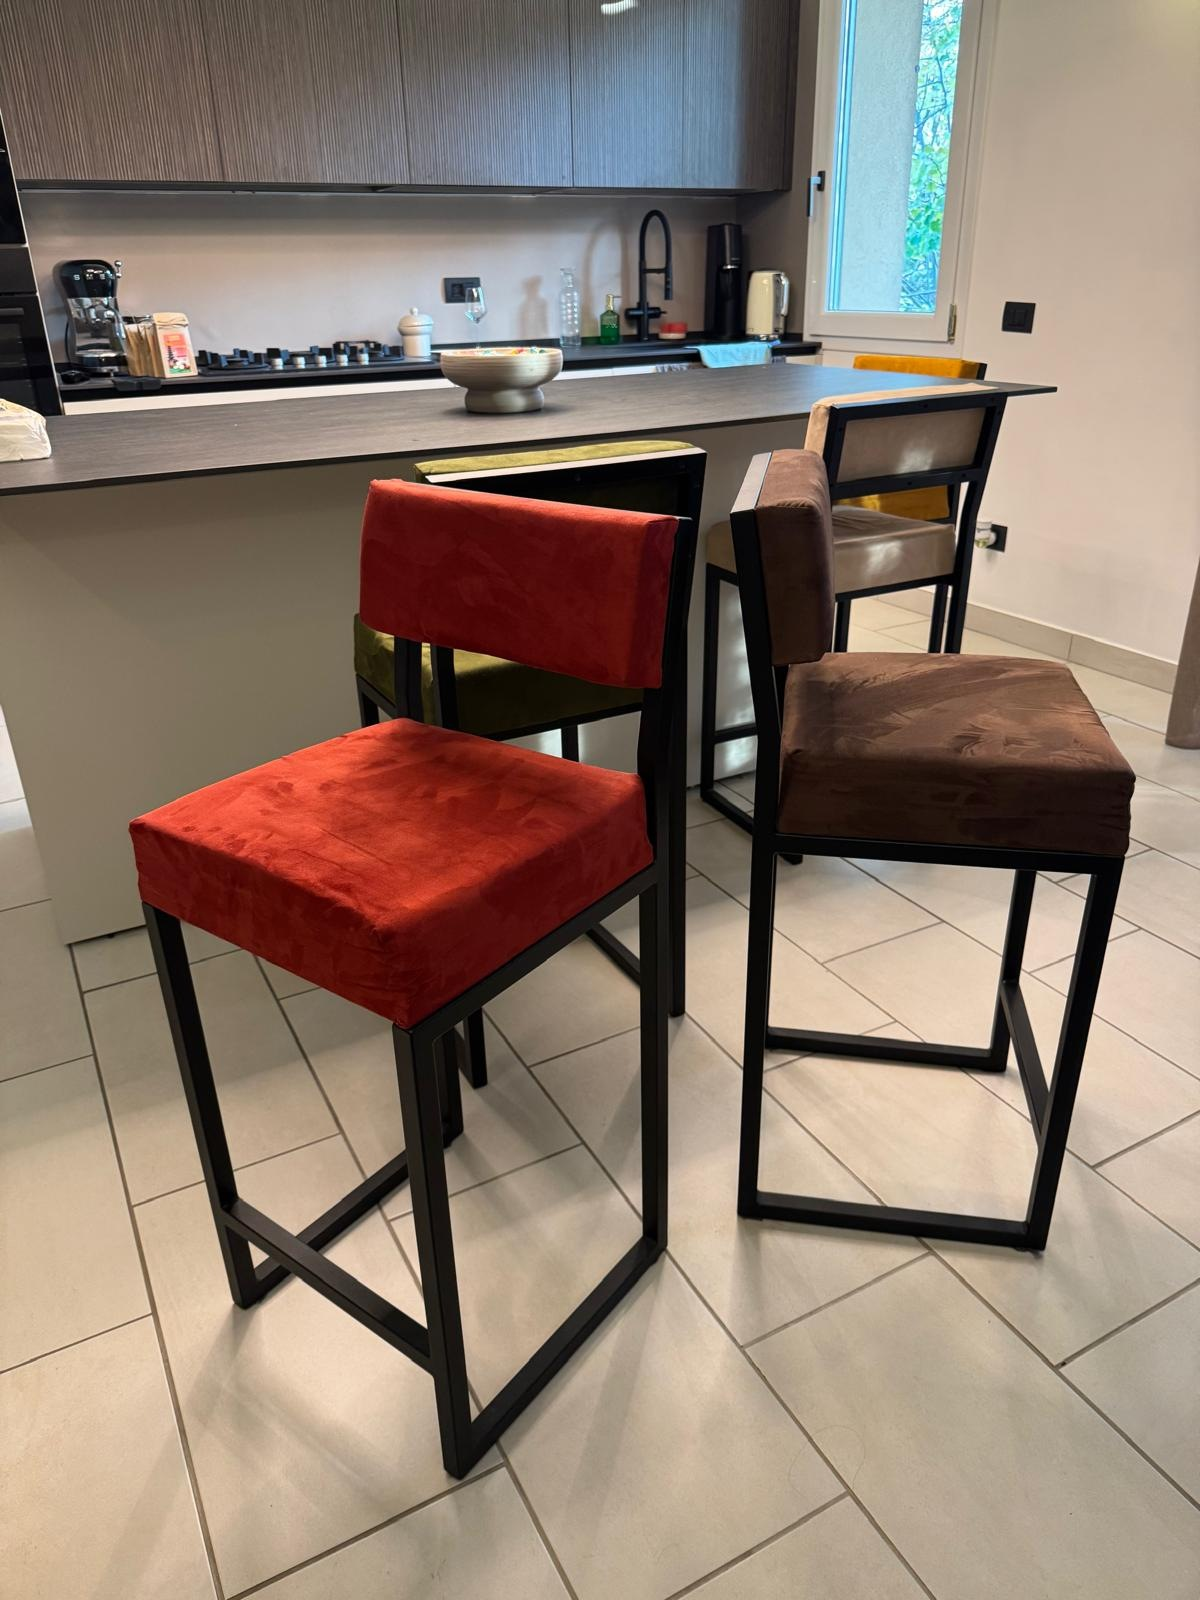
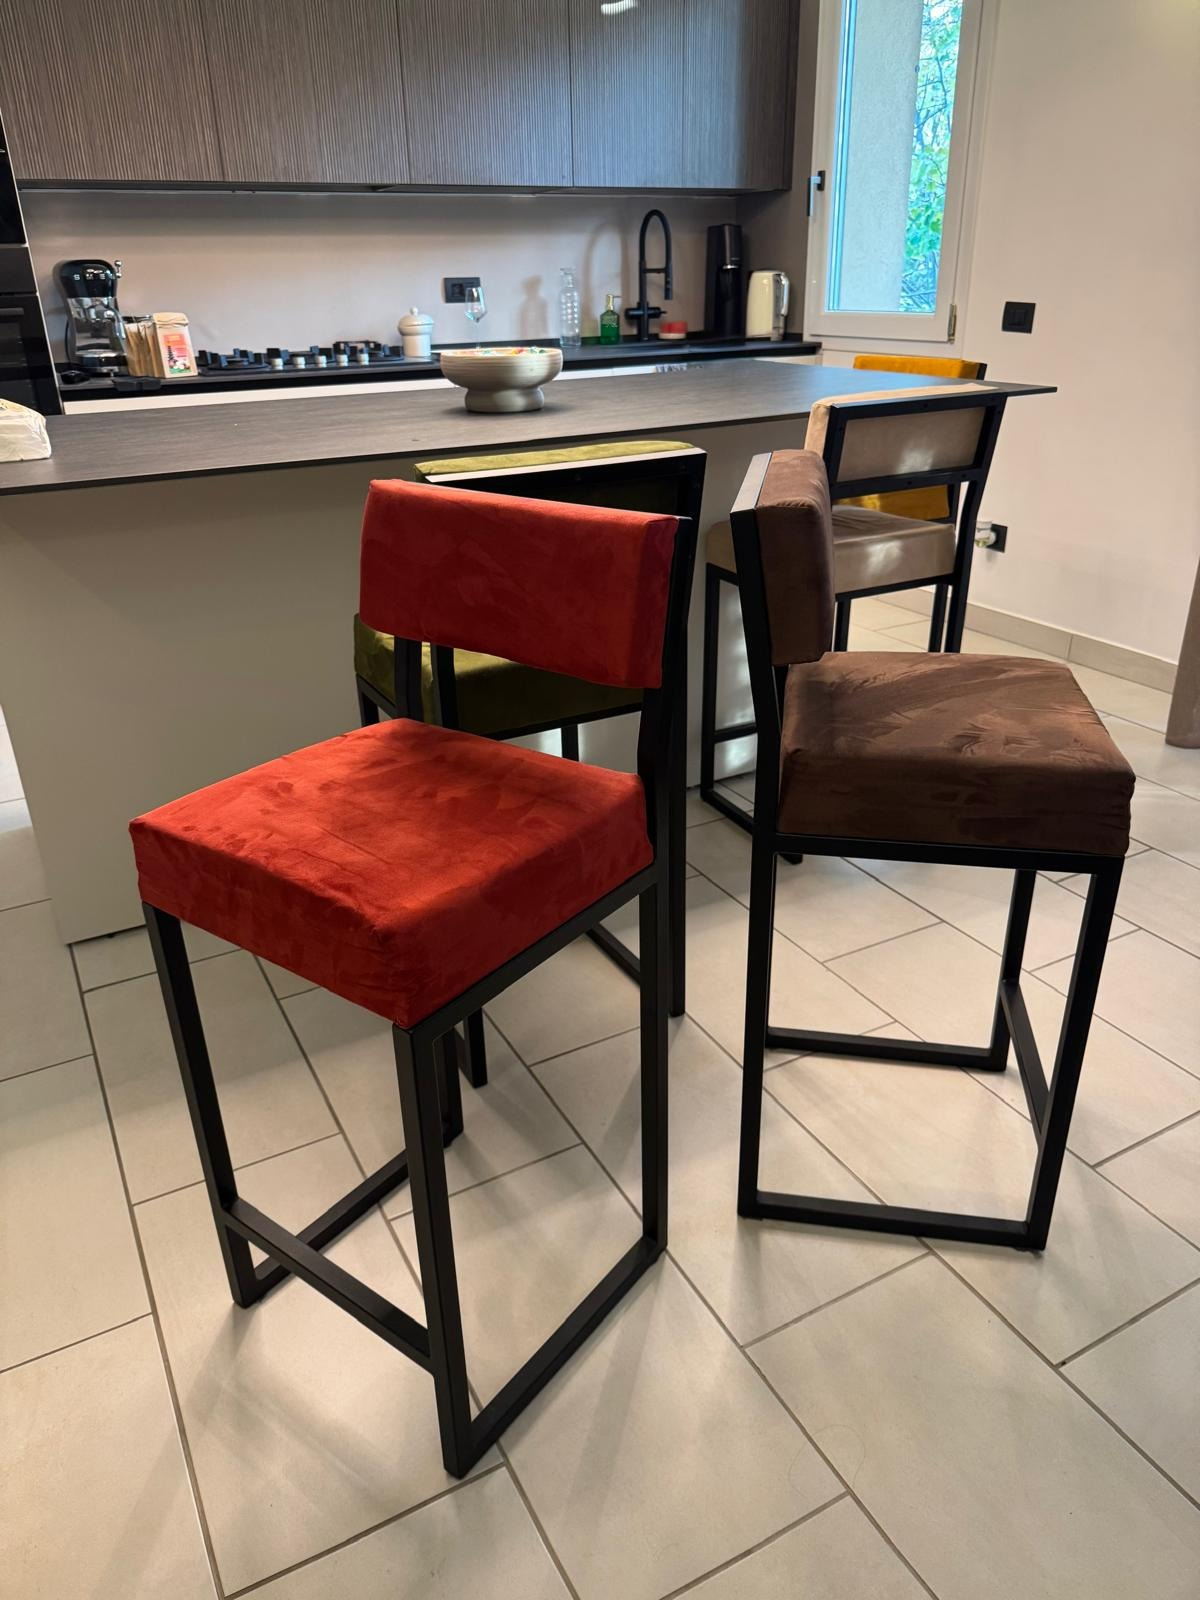
Video Simoni Design: nuove foto senza lo strofinaccio
Claude-Session: https://claude.ai/code/session_01Dv9nWWNrwGPQsbPot8haEt

diff --git a/index.html b/index.html
@@ -71,7 +71,7 @@
       </div>
       <div id="s4" class="clip scene" data-start="8.50" data-duration="1.75" data-track-index="1">
         <div id="s4-fade" class="fade">
-          <div class="zoom"><div id="s4-cam" class="cam" style="width:1920px"><img src="assets/simoni/p5.jpg" alt="" /></div></div>
+          <div class="zoom"><div id="s4-cam" class="cam" style="width:1440px"><img src="assets/simoni/p12.jpg" alt="" /></div></div>
           <div class="shade"></div>
           <div id="s4-cap" class="cap"><div class="bar"></div><div class="kick"><span class="chip" style="background:#6e7b1e"></span>01 / 05</div><div class="ml"><span id="s4-l0" class="l2">Verde</span></div></div>
         </div>
@@ -99,7 +99,7 @@
       </div>
       <div id="s8" class="clip scene" data-start="14.50" data-duration="1.75" data-track-index="1">
         <div id="s8-fade" class="fade">
-          <div class="zoom"><div id="s8-cam" class="cam" style="width:1440px"><img src="assets/simoni/p9.jpg" alt="" /></div></div>
+          <div class="zoom"><div id="s8-cam" class="cam" style="width:1920px"><img src="assets/simoni/p9.jpg" alt="" /></div></div>
           <div class="shade"></div>
           <div id="s8-cap" class="cap"><div class="bar"></div><div class="kick"><span class="chip" style="background:#e0a020"></span>05 / 05</div><div class="ml"><span id="s8-l0" class="l2">Senape</span></div></div>
         </div>
@@ -163,14 +163,14 @@
       tl.fromTo("#s2-l0", { yPercent: 115 }, { yPercent: 0, duration: 0.5, ease: "power3.out" }, 4.80);
       tl.fromTo("#s2-l1", { yPercent: 115 }, { yPercent: 0, duration: 0.5, ease: "power3.out" }, 4.90);
       tl.to("#s3-fade", { opacity: 0, duration: 0.05, ease: "none" }, 8.70);
-      tl.fromTo("#s3-cam", { x: -180, y: -222 }, { x: -266, y: -284, duration: 2.25, ease: "power1.inOut" }, 6.50);
-      tl.fromTo("#s3 .zoom", { scale: 1.3 }, { scale: 1.42, duration: 2.25, ease: "power1.inOut" }, 6.50);
+      tl.fromTo("#s3-cam", { x: -266, y: -160 }, { x: -410, y: -264, duration: 2.25, ease: "power1.inOut" }, 6.50);
+      tl.fromTo("#s3 .zoom", { scale: 1.2 }, { scale: 1.38, duration: 2.25, ease: "power1.inOut" }, 6.50);
       tl.fromTo("#s3-cap .bar", { scaleX: 0 }, { scaleX: 1, duration: 0.4, ease: "power3.out" }, 6.75);
       tl.fromTo("#s3-cap .kick", { opacity: 0, x: -20 }, { opacity: 1, x: 0, duration: 0.35, ease: "power2.out" }, 6.80);
       tl.fromTo("#s3-l0", { yPercent: 115 }, { yPercent: 0, duration: 0.5, ease: "power3.out" }, 6.80);
       tl.fromTo("#s3-l1", { yPercent: 115 }, { yPercent: 0, duration: 0.5, ease: "power3.out" }, 6.90);
       tl.to("#s4-fade", { opacity: 0, duration: 0.05, ease: "none" }, 10.20);
-      tl.fromTo("#s4-cam", { x: 0, y: 0 }, { x: 2, y: 192, duration: 1.75, ease: "power1.inOut" }, 8.50);
+      tl.fromTo("#s4-cam", { x: 0, y: 0 }, { x: 125, y: -134, duration: 1.75, ease: "power1.inOut" }, 8.50);
       tl.fromTo("#s4 .zoom", { scale: 1.0 }, { scale: 1.3, duration: 1.75, ease: "power1.inOut" }, 8.50);
       tl.fromTo("#s4-cap .bar", { scaleX: 0 }, { scaleX: 1, duration: 0.4, ease: "power3.out" }, 8.75);
       tl.fromTo("#s4-cap .kick", { opacity: 0, x: -20 }, { opacity: 1, x: 0, duration: 0.35, ease: "power2.out" }, 8.80);
@@ -194,7 +194,7 @@
       tl.fromTo("#s7-cap .kick", { opacity: 0, x: -20 }, { opacity: 1, x: 0, duration: 0.35, ease: "power2.out" }, 13.30);
       tl.fromTo("#s7-l0", { yPercent: 115 }, { yPercent: 0, duration: 0.5, ease: "power3.out" }, 13.30);
       tl.to("#s8-fade", { opacity: 0, duration: 0.05, ease: "none" }, 16.20);
-      tl.fromTo("#s8-cam", { x: -65, y: 0 }, { x: -122, y: -38, duration: 1.75, ease: "power1.inOut" }, 14.50);
+      tl.fromTo("#s8-cam", { x: -266, y: 0 }, { x: -343, y: -38, duration: 1.75, ease: "power1.inOut" }, 14.50);
       tl.fromTo("#s8 .zoom", { scale: 1.0 }, { scale: 1.25, duration: 1.75, ease: "power1.inOut" }, 14.50);
       tl.fromTo("#s8-cap .bar", { scaleX: 0 }, { scaleX: 1, duration: 0.4, ease: "power3.out" }, 14.75);
       tl.fromTo("#s8-cap .kick", { opacity: 0, x: -20 }, { opacity: 1, x: 0, duration: 0.35, ease: "power2.out" }, 14.80);
